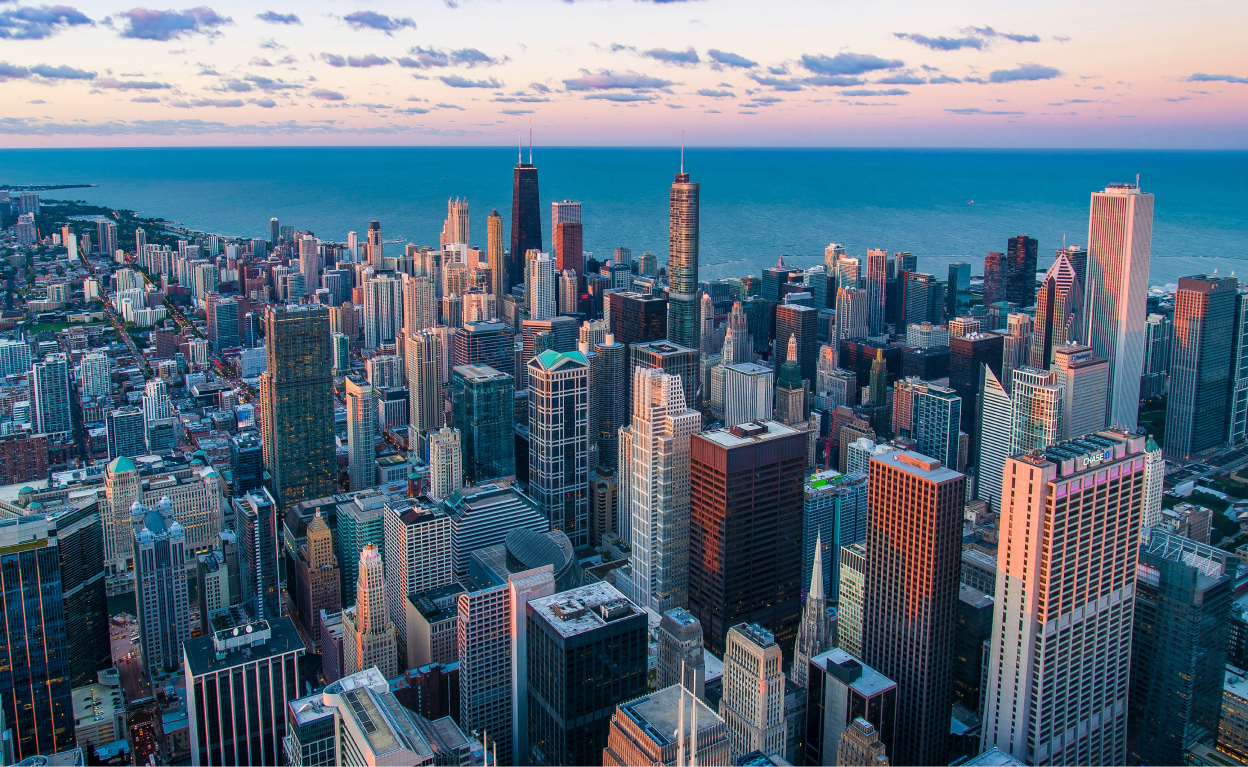
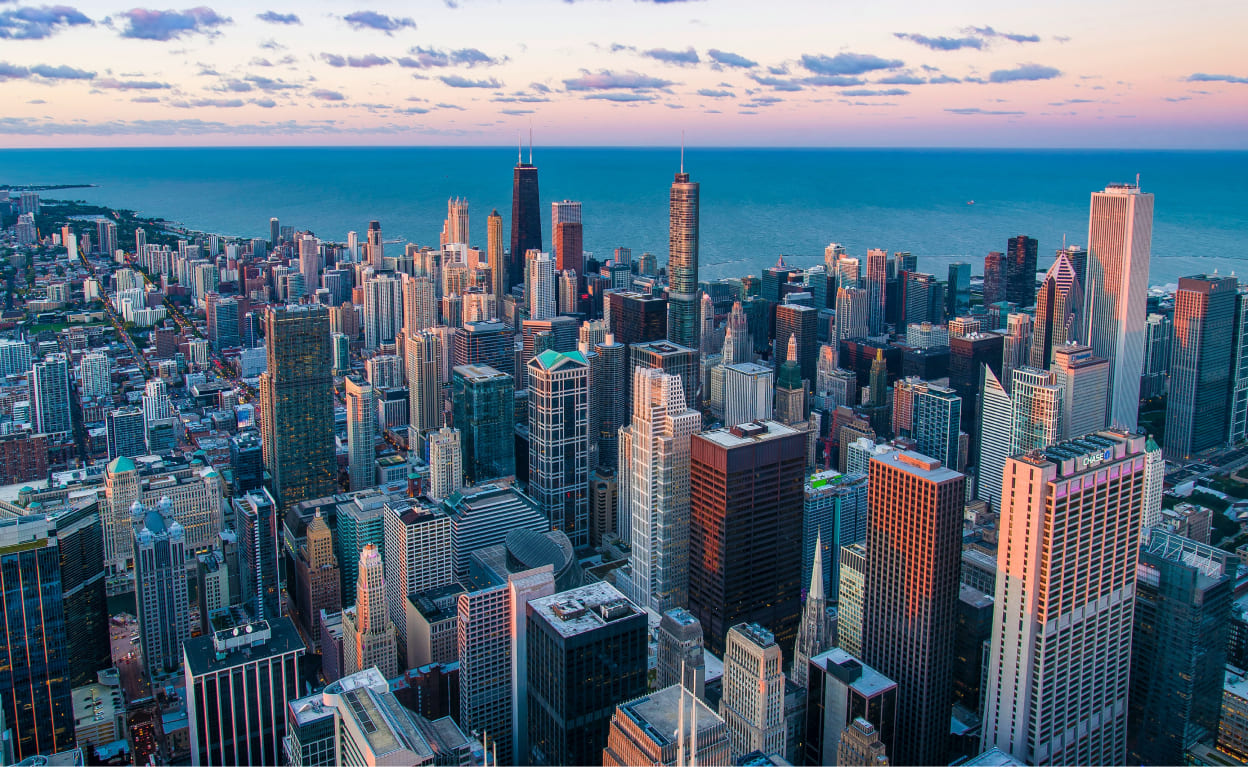
proyecto completo

Changed region(s): [[0.3125, 0.6897, 0.3438, 0.7497]]

diff --git a/src/app/public/home/home.component.scss b/src/app/public/home/home.component.scss
@@ -1,7 +1,7 @@
 @import "../../../styles";
 
 .banner {
-  background-image: url("/assets/img/jpg/banner.jpg");
+  background-image: url("/assets/img/webp/banner.webp");
   width: 100%;
   display: flex;
   height: 33vw;
@@ -87,15 +87,15 @@
       }
 
       &--chicago {
-        background-image: url("/assets/img/jpg/chicago.jpg");
+        background-image: url("/assets/img/webp/chicago.webp");
       }
 
       &--porto {
-        background-image: url("/assets/img/jpg/porto.jpg");
+        background-image: url("/assets/img/webp/porto.webp");
       }
 
       &--chicago2 {
-        background-image: url("/assets/img/jpg/mire.jpg");
+        background-image: url("/assets/img/webp/mire.webp");
       }
 
       .offers__card__text {
@@ -136,7 +136,7 @@
     background-size: 64vw;
     background-repeat: no-repeat;
     background-position: 99% 53%;
-    background-image: url("/assets/img/jpg/banner2.jpg");
+    background-image: url("/assets/img/webp/banner2.webp");
     border-radius: 0 15vw 15vw 0;
   }
 
@@ -144,7 +144,7 @@
     display: flex;
     flex-direction: column;
     justify-content: center;
-    
+
     h2 {
       color: white;
       font-size: 40px;
@@ -152,14 +152,108 @@
     }
 
     span {
-        color: white;
-        font-size: 40px;
-        color: rgba(192, 238, 242, 1);
+      color: white;
+      font-size: 40px;
+      color: rgba(192, 238, 242, 1);
     }
 
-    p{
-        font-size: 18px;
-        color: white;
+    p {
+      font-size: 18px;
+      color: white;
     }
   }
+}
+
+@media screen and (max-width: 420px) {
+  .banner {
+    background-position: 50% 0%;
+    background-size: 250vw;
+    height: 80vw;
+    background-repeat: no-repeat;
+
+    .banner__text {
+      display: flex;
+      flex-direction: column;
+      gap: 2vw;
+
+      h1 {
+        font-size: 7vw;
+      }
+
+      p {
+        font-size: 2.5vw;
+      }
+      a {
+        width: fit-content;
+        padding: 1vw 7vw;
+      }
+    }
+  }
+
+  //offers
+  .offers {
+    .offers__cards {
+      grid-template-columns: 100%;
+
+      .offers__card {
+        height: 50vw;
+        margin-bottom: 5vw;
+
+        &::before {
+          border-radius: 100% 0 0 0; }
+
+        .offers__card__text {
+          padding: 5%;
+          text-align: left;
+          z-index: 99;
+          h3 {
+            margin: 0;
+            color: white;
+            font-size: 5vw;
+          }
+
+          p {
+            color: white;
+            font-size: 3vw;
+
+            span {
+              font-size: 80%;
+            }
+          }
+        }
+      }
+    }
+  }
+
+  //banner2 
+  .banner2 {
+    height: 100%;
+    .banner2__container {
+      grid-template-columns: 100%;
+      grid-template-rows: 1fr 1fr;
+      height: 100vw;
+
+      .banner2__container__img {
+        background-size: 140vw;
+        background-position: 70% 70%;
+        border-radius: 0 0 15vw 15vw;
+      }
+
+      .banner2__container__text {
+        padding: 5%;
+        h2 {
+          font-size: 7vw;
+        }
+
+        span {
+          font-size: 7vw;
+        }
+
+        p {
+          font-size: 3.5vw;
+        }
+      }
+    }
+  }
+
 }

diff --git a/src/app/shared/header/header.component.scss b/src/app/shared/header/header.component.scss
@@ -1,14 +1,16 @@
 @import "../../../styles";
 
+.header__mobile {
+  display: none;
+}
+
 .header__desktop {
   padding: 1% 3%;
   display: flex;
   align-items: center;
   gap: 3vw;
 
-  .header__mobile {
-    display: none;
-  }
+  
 
   .header__desktop__links {
     width: 100%;
@@ -21,10 +23,24 @@
       font-size: 1vw;
       color: $primary-color;
       transition: all 0.4s;
+      position: relative;
+
+    &::before { 
+      content: "";
+      width: 0%;
+      border-radius: 1vw;
+      height: .2vw;
+      bottom: -20%;
+      background: $terciary-color;
+      position: absolute;
+      transition: all 0.4s;
+
+    }      
+      
     }
 
-    .header__desktop__link:hover {
-      text-decoration: underline;
+    .header__desktop__link:hover::before {
+      width: 100%;
     }
   }
 

diff --git a/src/styles.scss b/src/styles.scss
@@ -1,6 +1,7 @@
 $primary-color: #181823;
-$color-boton: #c20114;
 $secondary-color: #9292A0;
+$terciary-color: #537FE7;
+$color-boton: #c20114;
 
 body {
   margin: 0;
